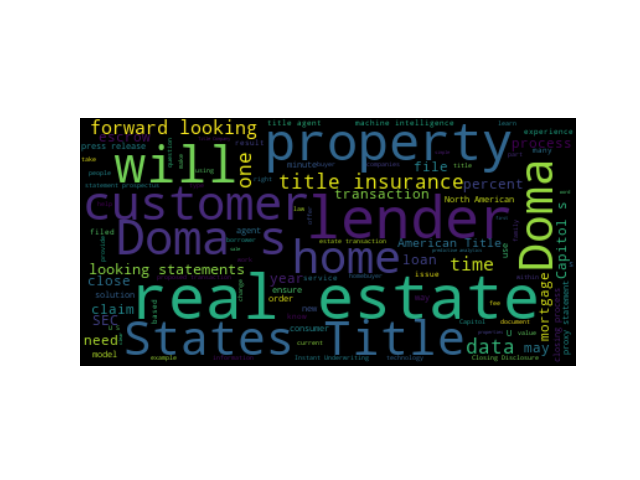
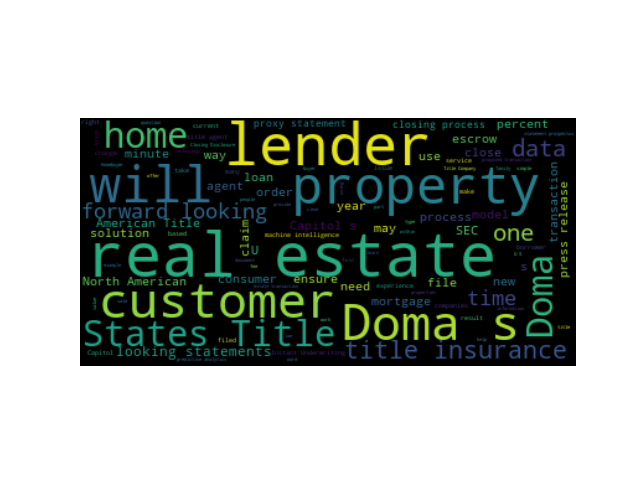
added roberta, chose better example sentences

Changed region(s): [[0.125, 0.25, 0.9062, 0.75]]

diff --git a/domadoma/modeling.py b/domadoma/modeling.py
@@ -3,17 +3,19 @@ import json
 import matplotlib.pyplot as plt
 import os
 import pandas as pd
-from random import shuffle
+from random import shuffle, seed
 import spacy
 import string
 import torch
 from transformers import (AutoTokenizer, AutoModelForMaskedLM, BertTokenizer, BertForMaskedLM,
-                          DataCollatorForLanguageModeling, Trainer, TrainingArguments, set_seed)
+                          DataCollatorForLanguageModeling,
+                          RobertaTokenizer, RobertaForMaskedLM,
+                          Trainer, TrainingArguments, set_seed)
 from wordcloud import WordCloud
 
 
 def split_df(df,
-             test_size=.5):
+             test_size=.75):
     """Splits a dataset into train and test, with test_size proportion allocated to the latter"""
     rows = [i for i in range(df.shape[0])]
     shuffle(rows)
@@ -34,65 +36,64 @@ def refine_model(out_path):
             df['sent_id'].append(len(df['sent_id']))
             df['text'].append(sent.text)
     df = pd.DataFrame(df)
+    seed(0)
     df_train, df_test = split_df(df)
 
     model_ckpt = 'bert-base-uncased'
+    model_roberta = 'roberta-base'
 
     def tokenize(batch):
         return tokenizer(batch['text'], truncation=True, max_length=128, return_special_tokens_mask=True)
-    tokenizer = AutoTokenizer.from_pretrained(model_ckpt)
 
-    ds = DatasetDict({
-        'train': Dataset.from_pandas(df_train.reset_index(drop=True)),
-        'test': Dataset.from_pandas(df_test.reset_index(drop=True)),
-    })
-    ds = ds.map(tokenize, batched=True)
-    ds.set_format('torch')
+    for model in [model_roberta, model_ckpt]:
+        tokenizer = AutoTokenizer.from_pretrained(model)
 
-    set_seed(0)
-    data_collator = DataCollatorForLanguageModeling(tokenizer=tokenizer, mlm_probability=0.15)
-    data_collator.return_tensors = 'pt'
+        ds = DatasetDict({
+            'train': Dataset.from_pandas(df_train.reset_index(drop=True)),
+            'test': Dataset.from_pandas(df_test.reset_index(drop=True)),
+        })
+        ds = ds.map(tokenize, batched=True)
+        ds.set_format('torch')
 
-    training_args = TrainingArguments(
-        output_dir=f'{model_ckpt}-doma-128', per_device_train_batch_size=32,
-        logging_strategy='epoch', evaluation_strategy='epoch', save_strategy='epoch',
-        num_train_epochs=30, push_to_hub=False, log_level='error', report_to='none'
-    )
+        set_seed(0)
+        data_collator = DataCollatorForLanguageModeling(tokenizer=tokenizer, mlm_probability=0.15)
+        data_collator.return_tensors = 'pt'
 
-    trainer = Trainer(
-        model=AutoModelForMaskedLM.from_pretrained(model_ckpt), tokenizer=tokenizer, args=training_args,
-        data_collator=data_collator, train_dataset=ds['train'], eval_dataset=ds['test']
-    )
+        training_args = TrainingArguments(
+            output_dir=f'{model}-doma-128', per_device_train_batch_size=32,
+            logging_strategy='epoch', evaluation_strategy='epoch', save_strategy='epoch',
+            num_train_epochs=30, push_to_hub=False, log_level='error', report_to='none'
+        )
 
-    trainer.train()
+        trainer = Trainer(
+            model=AutoModelForMaskedLM.from_pretrained(model), tokenizer=tokenizer, args=training_args,
+            data_collator=data_collator, train_dataset=ds['train'], eval_dataset=ds['test']
+        )
 
-    trainer.save_model(f'{model_ckpt}-doma-128/over_fit')
+        trainer.train()
 
-    log = pd.DataFrame(trainer.state.log_history)
-    log.dropna(subset=["eval_loss"]).reset_index()["eval_loss"].plot(label="Validation")
-    log.dropna(subset=["loss"]).reset_index()["loss"].plot(label="Train")
+        trainer.save_model(f'{model}-doma-128/over_fit')
 
-    plt.xlabel("Epochs")
-    plt.ylabel("Loss")
-    plt.legend(loc="upper right")
+        log = pd.DataFrame(trainer.state.log_history)
+        log.dropna(subset=["eval_loss"]).reset_index()["eval_loss"].plot(label="Validation")
+        log.dropna(subset=["loss"]).reset_index()["loss"].plot(label="Train")
 
-    plt.savefig(f'{model_ckpt}-doma-128/training_curve.png')
-    plt.show()
-    plt.close()
+        plt.xlabel("Epochs")
+        plt.ylabel("Loss")
+        plt.legend(loc="upper right")
+
+        plt.savefig(f'{model}-doma-128/training_curve.png')
+        plt.show()
+        plt.close()
 
 
 def make_word_cloud(out_path):
     """Creates a word cloud based on the corpus.  The corpus dir is not published, so save to model dir."""
-    nlp = spacy.load('en_core_web_trf')
-
-    model_ckpt = 'bert-base-uncased'
 
     text = []
     for f_name in os.listdir(out_path + '/corpus/'):
         with open(out_path + '/corpus/' + f_name, 'r', encoding='utf8') as f:
-            doc = nlp(f.read())
-            for sent in doc.sents:
-                text.append(sent.text)
+            text.append(f.read())
     wordcloud = WordCloud(max_font_size=50, max_words=100).generate(' '.join(text))
     #plt.figure(figsize=(15, 15))
     plt.imshow(wordcloud, interpolation='bilinear')
@@ -132,37 +133,46 @@ def get_all_predictions(text_sentence,
                         top_clean=5):
     """Predict masked token in text_sentence, keeping top_clean best predictions."""
 
-    model_ckpt = 'bert-base-uncased'
-
     bert_tokenizer = BertTokenizer.from_pretrained('bert-base-uncased', do_lower_case=False)
-    bert_model = BertForMaskedLM.from_pretrained('bert-base-uncased', output_hidden_states=True, output_attentions=True)
+    bert_model = BertForMaskedLM.from_pretrained('bert-base-uncased',
+                                                 output_hidden_states=True, output_attentions=True)
 
-    doma_tokenizer = AutoTokenizer.from_pretrained(f'{model_ckpt}-doma-128/checkpoint-456', do_lower_case=False)
-    doma_model = AutoModelForMaskedLM.from_pretrained(f'{model_ckpt}-doma-128/checkpoint-456',
+    roberta_tokenizer = RobertaTokenizer.from_pretrained('roberta-base', do_lower_case=False)
+    roberta_model = RobertaForMaskedLM.from_pretrained('roberta-base',
+                                                       output_hidden_states=True, output_attentions=True)
+
+    doma_tokenizer = AutoTokenizer.from_pretrained('bert-base-uncased-doma-128/over_fit', do_lower_case=False)
+    doma_model = AutoModelForMaskedLM.from_pretrained('bert-base-uncased-doma-128/over_fit',
                                                       output_hidden_states=True, output_attentions=True)
 
-    input_ids, mask_idx = encode(bert_tokenizer, text_sentence)
-    with torch.no_grad():
-        predict = bert_model(input_ids)[0]
-    bert = decode(bert_tokenizer, predict[0, mask_idx, :].topk(top_clean).indices.tolist(), top_clean)
+    rodoma_tokenizer = AutoTokenizer.from_pretrained('roberta-base-doma-128/over_fit', do_lower_case=False)
+    rodoma_model = AutoModelForMaskedLM.from_pretrained('roberta-base-doma-128/over_fit',
+                                                      output_hidden_states=True, output_attentions=True)
 
-    input_ids, mask_idx = encode(doma_tokenizer, text_sentence)
-    with torch.no_grad():
-        predict = doma_model(input_ids)[0]
-    doma = decode(doma_tokenizer, predict[0, mask_idx, :].topk(top_clean).indices.tolist(), top_clean)
+    lms = {'bert': [bert_tokenizer, bert_model],
+           'roberta': [roberta_tokenizer, roberta_model],
+           'doma': [doma_tokenizer, doma_model],
+           'rodoma': [rodoma_tokenizer, rodoma_model]}
+    output = {}
 
-    return {'bert': bert.split(), 'doma': doma.split()}
+    for mod, lm in lms.items():
+        input_ids, mask_idx = encode(lm[0], text_sentence)
+        with torch.no_grad():
+            predict = lm[1](input_ids)[0]
+        output.update({mod: decode(lm[0], predict[0, mask_idx, :].topk(top_clean).indices.tolist(), top_clean).split()})
+
+    return output
 
 
 def word_prediction():
     sentences = [
-        'The closing process should be <mask>',
-        'The traditional approach to titling is <mask>',
-        'We want home buying to be <mask>',
-        'With the aid of <mask>, we make closing faster'
+        'Doma wants the closing process to be <mask>.',
+        'The traditional mortgage process is too <mask>.',
+        'Our approach to titling is <mask> for home buyers.',
+        'With the aid of <mask>, we make closing faster.'
     ]
     results = {}
     for sent in sentences:
-        results.update({sent: get_all_predictions(text_sentence=sent, top_clean=5)})
+        results.update({sent: get_all_predictions(text_sentence=sent, top_clean=2)})
     with open('word_predictions.json', 'w') as f:
-        json.dump(results, f)
+        json.dump(results, f, indent=4, sort_keys=True)

diff --git a/README.md b/README.md
@@ -20,18 +20,18 @@ Nice blog posts from Doma [like this one](https://www.doma.com/understanding-ber
 
 In particular, [this post](https://www.doma.com/neural-language-models-as-domain-specific-knowledge-bases/) highlights the need for tuning language models to a domain's corpus.
 
-As an extension to the examples shown in that post, I'll compare a standard BERT language model (`bert-base-uncased` in the HuggingFace Hub) against a language model trained on text published by Doma.
+As an extension to the examples shown in that post, I'll compare standard BERT and ROBERTA language models (`bert-base-uncased` and `roberta-base` in the HuggingFace Hub) against language models trained on text published by Doma.
 Here, the corpus is obviously comprised of materials that Doma uses to advertise itself.
 Hence, a language model trained on this data should adapt to normative claims made by the company and be able to replicate that "Doma is awesome" attitude.
 
 A few example strings are test:
 
-| String | BERT | Refined to Doma Corpus |
-| ------ | ---- | ---------------------- |
-| "The closing process should be \<mask\>" | ["stopped", "repeated", "completed", "complete", "done"] | ["thorough", "straightforward", "streamlined", "easy", "transparent"] |
-| "The traditional approach to titling is \<mask\>" | ["abandoned", "discontinued", "adopted", "used", "gone"] | ["straightforward", "simple", "outdated", "incorrect", "problematic"] |
-| "We want home buying to be \<mask\>" | ["easy", "fun", "good", "free", "done"] | ["affordable", "easy", "simple", "inclusive", "easier"] |
-| "With the aid of \<mask\>, we make closing faster" | ["god", "light", "fire", "water", "love"] | ["technology", "software", "data", "computers", "tech"] |
+| String | BERT | BERT Refined to Doma Corpus | ROBERTA | ROBERTA Refined to Doma Corpus |
+| ------ | ---- | --------------------------- | ------- | ------------------------------ |
+| "Doma wants the closing process to be \<mask\>." | ["complete", "completed"] | ["complete", "streamlined"] | ["transparent", "completed"] | ["seamless", "efficient"] |
+| "Our approach to titling is \<mask\> for home buyers." | ["recommended", "suitable"] | ["essential", "revolutionary"] | ["ideal", "good"] | ["revolutionary", "empowering"] |
+| "The traditional mortgage process is too \<mask\>." | ["complex", "expensive"] | ["complex", "costly"] | ["complicated", "complex"] | ["complex", "cumbersome"] |
+| "With the aid of \<mask\>, we make closing faster." | ["water", "light"] | ["technology", "tech"] | ["gravity", "levers"] | ["technology", "science"] |
 
 The last one is pretty funny.  In all instances, the model refined to Doma's corpus of marketing materials is better able to fill in sentences such that the text reads like something you would find on their website.
 This is not surprising, a good model should be able to adapt to the domain of the language that it's shown.
